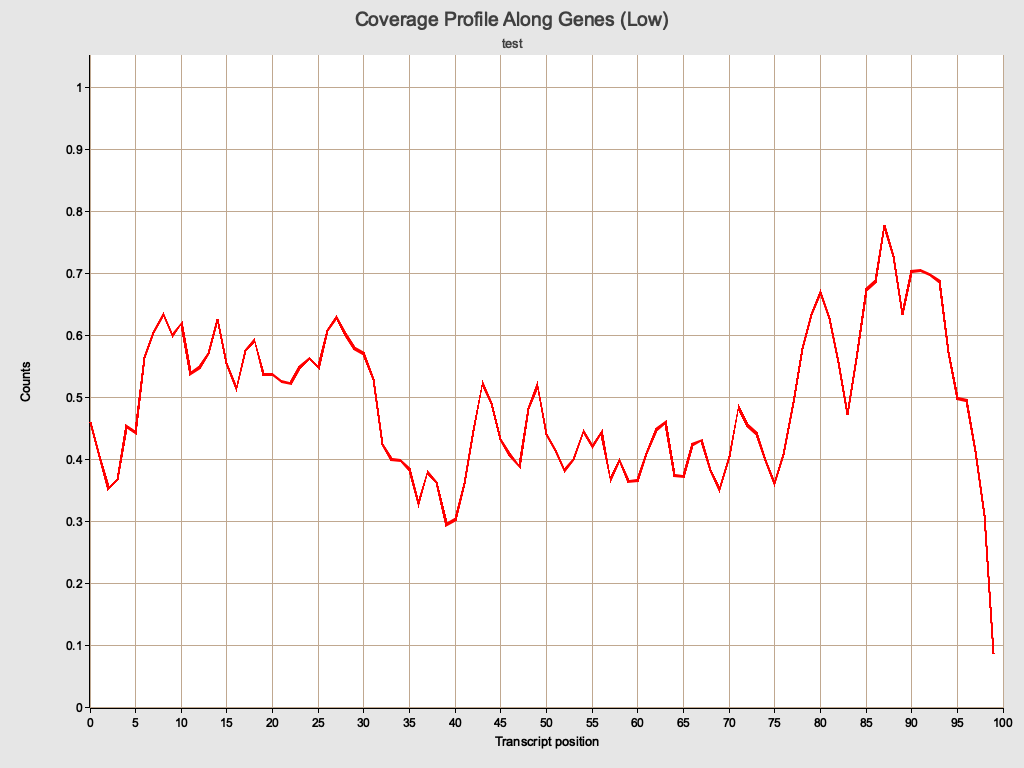
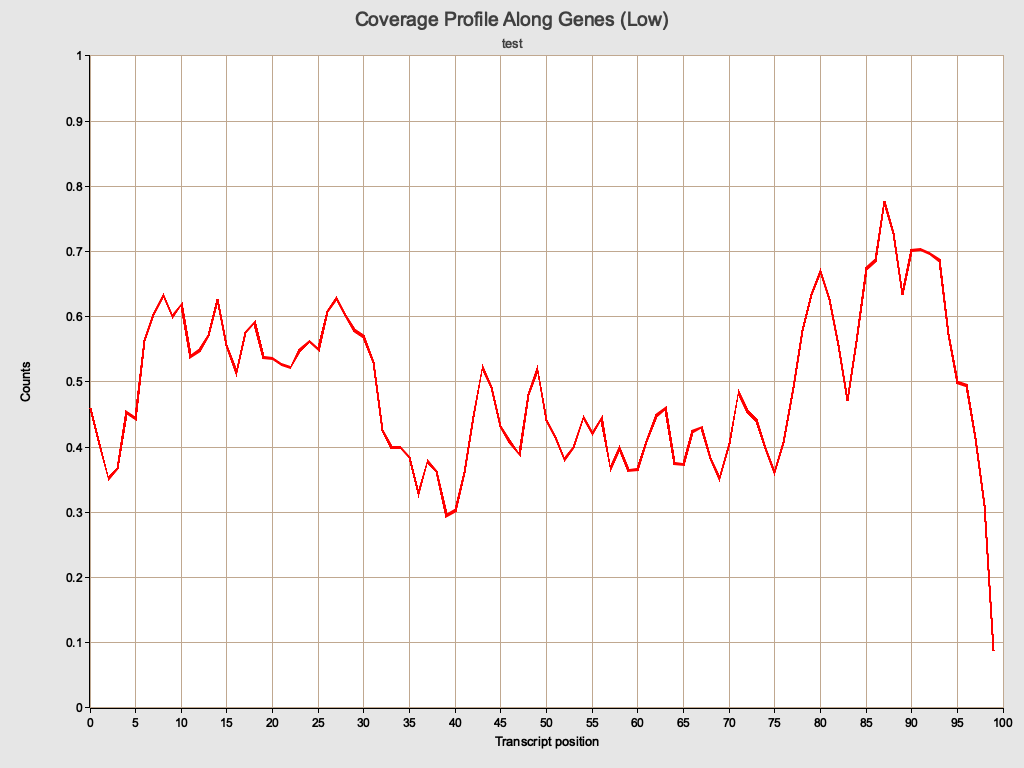
Qualimap: fix y-axis auto-scaling for low-coverage profile
Fix nice_ceil() function to use fine-grained nice steps for small values,
matching the existing logic for large values. The coarse branch was rounding
nice_ceil(0.25) to 0.525, causing the 'Coverage Profile Along Genes (Low)'
y-axis to extend to 0.5 instead of fitting the data at ~0.25.

diff --git a/src/rna/qualimap/plots.rs b/src/rna/qualimap/plots.rs
@@ -769,23 +769,8 @@ fn nice_ceil(val: f64) -> f64 {
         return 1.0;
     }
 
-    // For very small values (< 1), use decimal rounding
-    if val < 1.0 {
-        let magnitude = 10.0f64.powf(val.log10().floor());
-        let normalized = val / magnitude;
-        let nice = if normalized <= 1.0 {
-            1.0
-        } else if normalized <= 2.0 {
-            2.0
-        } else if normalized <= 5.0 {
-            5.0
-        } else {
-            10.0
-        };
-        return nice * magnitude * 1.05;
-    }
-
-    // For larger values, find a nice round number
+    // Find a nice round number for the Y-axis ceiling.
+    // Use the same fine steps for both small (< 1) and large values.
     let magnitude = 10.0f64.powf(val.log10().floor());
     let normalized = val / magnitude;
 
@@ -853,7 +838,9 @@ mod tests {
         assert_eq!(nice_ceil(675000.0), 750000.0);
         assert_eq!(nice_ceil(87500.0), 100000.0);
         assert_eq!(nice_ceil(210000.0), 250000.0);
-        assert_eq!(nice_ceil(0.2), 0.21000000000000002); // small value
+        assert_eq!(nice_ceil(0.2), 0.2); // small value — rounds to nice step
+        assert_eq!(nice_ceil(0.25), 0.25); // small value — exact match on nice step
+        assert!((nice_ceil(0.26) - 0.3).abs() < 1e-15); // small value — rounds up to next step
     }
 
     #[test]
